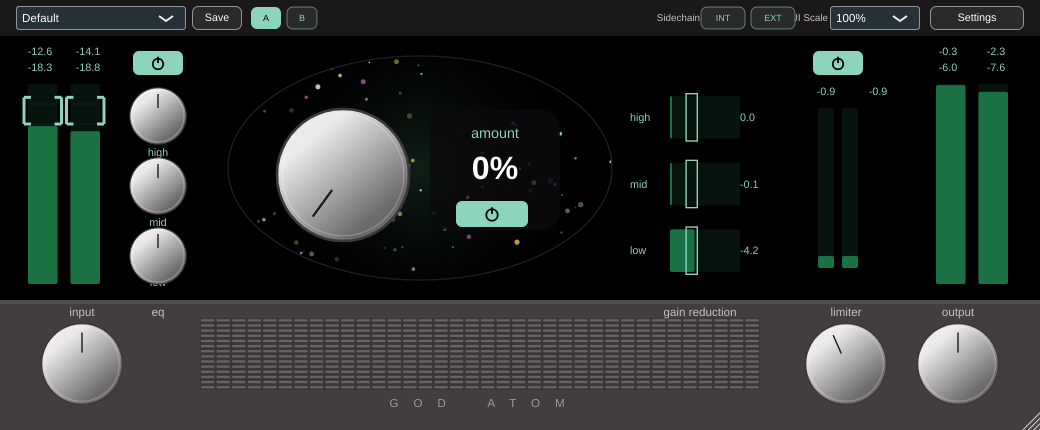
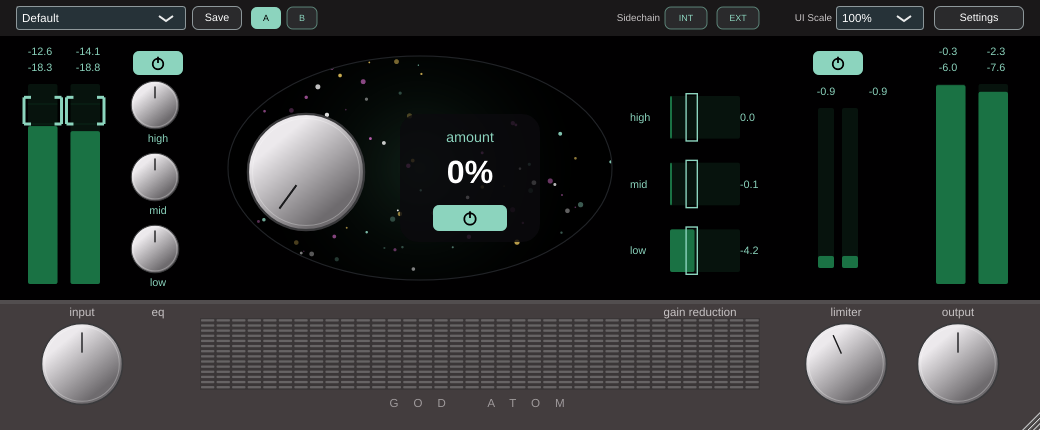
Polish layout spacing and add named user presets
Keep the amount knob left of the readout capsule with a clear gap, sit the EQ Low label fully above the chassis, and space UI Scale away from the EXT button. Save writes named presets to ~/Library/Audio/Presets/GOD ATOM and lists them in the preset menu.

diff --git a/src/plugin/PluginEditor.cpp b/src/plugin/PluginEditor.cpp
@@ -16,6 +16,9 @@ const juce::Colour topBar { 0xff1a1819 };
 
 static constexpr int kBaseW = 1040;
 static constexpr int kBaseH = 430;
+// Amount: knob on the left of the galaxy, readout capsule to its right, a clear gap between them.
+static constexpr float kAmtKnobX = 240, kAmtKnobY = 106, kAmtKnobS = 132;
+static constexpr float kAmtCapX  = 400, kAmtCapY  = 114, kAmtCapW = 140, kAmtCapH = 128;
 
 void SilverLookAndFeel::drawRotarySlider(juce::Graphics& g, int x, int y, int w, int h,
                                          float pos, float start, float end, juce::Slider&) {
@@ -101,13 +104,19 @@ GodAtomEditor::GodAtomEditor(GodAtomProcessor& p)
     addT(btnA, "A"); addT(btnB, "B");
     addT(animBtn, "Animation"); addT(autoBtn, "Auto-gain");
 
-    presetBox.addItemList(juce::StringArray(ga::kPresetNames, ga::kNumPresets), 1);
-    presetBox.setSelectedId(proc.getCurrentProgram() + 1, juce::dontSendNotification);
     presetBox.onChange = [this] {
-        int i = presetBox.getSelectedId() - 1;
-        if (i >= 0) proc.applyPreset(i);
+        int id = presetBox.getSelectedId();
+        if (id >= 1000) {
+            auto names = GodAtomProcessor::listUserPresets();
+            int i = id - 1000;
+            if (juce::isPositiveAndBelow(i, names.size()))
+                proc.loadUserPreset(names[i]);
+        } else if (id > 0) {
+            proc.applyPreset(id - 1);
+        }
     };
     addAndMakeVisible(presetBox);
+    refreshPresetMenu();
 
     scaleBox.addItemList({ "75%", "100%", "125%", "150%", "200%" }, 1);
     osBox.addItemList({ "1x", "2x", "4x", "8x" }, 1);
@@ -128,7 +137,18 @@ GodAtomEditor::GodAtomEditor(GodAtomProcessor& p)
         autoBtn.setVisible(proc.showSettings);
         repaint();
     };
-    saveBtn.onClick = [this] { /* user presets stay in host session state via A/B + DAW save */ };
+    saveBtn.onClick = [this] { showSavePrompt(); };
+    saveOk.onClick = [this] { commitSave(); };
+    saveName.setTextToShowWhenEmpty("Preset name", col::label);
+    saveName.setColour(juce::TextEditor::backgroundColourId, juce::Colour(0xff2a2a2c));
+    saveName.setColour(juce::TextEditor::textColourId, col::mint);
+    saveName.setColour(juce::TextEditor::outlineColourId, col::mint);
+    saveName.setJustification(juce::Justification::centredLeft);
+    saveName.onReturnKey = [this] { commitSave(); };
+    saveName.onEscapeKey = [this] { hideSavePrompt(); };
+    addChildComponent(saveName);
+    addChildComponent(saveOk);
+    saveOk.setColour(juce::TextButton::buttonColourId, juce::Colour(0xff2a2a2c));
 
     btnA.onClick = [this] {
         proc.storeSlot(proc.activeSlot());
@@ -217,27 +237,82 @@ void GodAtomEditor::applyScaleFromParam() {
     setSize((int)std::lround(kBaseW * sc), (int)std::lround(kBaseH * sc));
 }
 
+void GodAtomEditor::refreshPresetMenu() {
+    auto selUser = proc.currentUserPreset();
+    int keepFactory = selUser.isEmpty() ? proc.getCurrentProgram() + 1 : 0;
+    presetBox.clear(juce::dontSendNotification);
+    for (int i = 0; i < ga::kNumPresets; ++i)
+        presetBox.addItem(ga::kPresetNames[i], i + 1);
+    auto users = GodAtomProcessor::listUserPresets();
+    if (users.size() > 0) {
+        presetBox.addSeparator();
+        for (int i = 0; i < users.size(); ++i)
+            presetBox.addItem(users[i], 1000 + i);
+    }
+    if (selUser.isNotEmpty()) {
+        int idx = users.indexOf(selUser);
+        if (idx >= 0) presetBox.setSelectedId(1000 + idx, juce::dontSendNotification);
+        else presetBox.setSelectedId(1, juce::dontSendNotification);
+    } else {
+        presetBox.setSelectedId(keepFactory > 0 ? keepFactory : 1, juce::dontSendNotification);
+    }
+}
+
+bool GodAtomEditor::presetMenuContains(const juce::String& name) const {
+    for (int i = 0; i < presetBox.getNumItems(); ++i)
+        if (presetBox.getItemText(i) == name)
+            return true;
+    return false;
+}
+
+void GodAtomEditor::showSavePrompt() {
+    saveName.setText(proc.currentUserPreset().isEmpty() ? "My preset" : proc.currentUserPreset(),
+                     juce::dontSendNotification);
+    saveName.setVisible(true);
+    saveOk.setVisible(true);
+    saveName.grabKeyboardFocus();
+    saveName.selectAll();
+}
+
+void GodAtomEditor::hideSavePrompt() {
+    saveName.setVisible(false);
+    saveOk.setVisible(false);
+}
+
+void GodAtomEditor::commitSave() {
+    auto name = saveName.getText();
+    if (proc.saveUserPreset(name)) {
+        hideSavePrompt();
+        refreshPresetMenu();
+    }
+}
+
 void GodAtomEditor::resized() {
     scale = (float)getWidth() / (float)kBaseW;
-    // Top bar
+    // Top bar: leftover space after EXT before the UI Scale label.
     presetBox.setBounds(SR(16, 6, 170, 24).toNearestInt());
     saveBtn.setBounds(SR(192, 6, 50, 24).toNearestInt());
     btnA.setBounds(SR(250, 6, 32, 24).toNearestInt());
     btnB.setBounds(SR(286, 6, 32, 24).toNearestInt());
-    scInt.setBounds(SR(700, 6, 46, 24).toNearestInt());
-    scExt.setBounds(SR(750, 6, 46, 24).toNearestInt());
-    scaleBox.setBounds(SR(830, 6, 90, 24).toNearestInt());
-    settingsBtn.setBounds(SR(930, 6, 94, 24).toNearestInt());
+    saveName.setBounds(SR(326, 6, 150, 24).toNearestInt());
+    saveOk.setBounds(SR(480, 6, 40, 24).toNearestInt());
+    scInt.setBounds(SR(664, 6, 44, 24).toNearestInt());
+    scExt.setBounds(SR(716, 6, 44, 24).toNearestInt());
+    scaleBox.setBounds(SR(836, 6, 88, 24).toNearestInt());
+    settingsBtn.setBounds(SR(934, 6, 90, 24).toNearestInt());
 
-    // EQ knobs
+    // EQ knobs — slightly smaller so the Low label sits fully above the chassis.
     eqOn.setBounds(SR(132, 50, 52, 26).toNearestInt());
-    eqHigh.setBounds(SR(126, 84, 64, 64).toNearestInt());
-    eqMid.setBounds(SR(126, 154, 64, 64).toNearestInt());
-    eqLow.setBounds(SR(126, 224, 64, 64).toNearestInt());
+    eqHigh.setBounds(SR(128, 78, 54, 54).toNearestInt());
+    eqMid.setBounds(SR(128, 150, 54, 54).toNearestInt());
+    eqLow.setBounds(SR(128, 222, 54, 54).toNearestInt());
 
-    // Amount
-    amountKnob.setBounds(SR(268, 100, 150, 150).toNearestInt());
-    charOn.setBounds(SR(455, 200, 74, 28).toNearestInt());
+    // Amount: knob left, capsule (and its power button) to the right, no overlap.
+    amountKnob.setBounds(SR(kAmtKnobX, kAmtKnobY, kAmtKnobS, kAmtKnobS).toNearestInt());
+    const float pwrW = 76.f, pwrH = 28.f;
+    charOn.setBounds(SR(kAmtCapX + 0.5f * (kAmtCapW - pwrW),
+                        kAmtCapY + kAmtCapH - pwrH - 10.f,
+                        pwrW, pwrH).toNearestInt());
 
     // Limiter power
     limOn.setBounds(SR(812, 50, 52, 26).toNearestInt());
@@ -264,9 +339,11 @@ void GodAtomEditor::timerCallback() {
     bool ext = proc.apvts.getRawParameterValue("extSC")->load() >= 0.5f;
     scInt.setToggleState(!ext, juce::dontSendNotification);
     scExt.setToggleState(ext, juce::dontSendNotification);
-    int prog = proc.getCurrentProgram() + 1;
-    if (presetBox.getSelectedId() != prog && !presetBox.hasKeyboardFocus(true))
-        presetBox.setSelectedId(prog, juce::dontSendNotification);
+    if (proc.currentUserPreset().isEmpty() && !presetBox.hasKeyboardFocus(true)) {
+        int prog = proc.getCurrentProgram() + 1;
+        if (presetBox.getSelectedId() != prog)
+            presetBox.setSelectedId(prog, juce::dontSendNotification);
+    }
     if (proc.apvts.getRawParameterValue("animation")->load() >= 0.5f) {
         for (auto& pt : parts) {
             pt.x += pt.vx; pt.y += pt.vy;
@@ -387,8 +464,8 @@ void GodAtomEditor::drawGalaxy(juce::Graphics& g, juce::Rectangle<float> area, f
     g.setColour(juce::Colour(0xff202226));
     g.drawEllipse(oval, 1.2f * scale);
 
-    // Amount capsule
-    auto cap = juce::Rectangle<float>(S(430), S(110), S(130), S(120));
+    // Amount capsule — to the right of the knob, not under it.
+    auto cap = SR(kAmtCapX, kAmtCapY, kAmtCapW, kAmtCapH);
     g.setColour(juce::Colour(0xcc0b0a0e));
     g.fillRoundedRectangle(cap, S(18));
     g.setColour(col::mint);
@@ -486,8 +563,8 @@ void GodAtomEditor::paint(juce::Graphics& g) {
     // EQ labels
     g.setColour(col::mint);
     g.setFont(juce::FontOptions(S(12)));
-    g.drawText("high", SR(126, 146, 64, 14).toNearestInt(), juce::Justification::centred, false);
-    g.drawText("mid",  SR(126, 216, 64, 14).toNearestInt(), juce::Justification::centred, false);
+    g.drawText("high", SR(126, 132, 64, 14).toNearestInt(), juce::Justification::centred, false);
+    g.drawText("mid",  SR(126, 204, 64, 14).toNearestInt(), juce::Justification::centred, false);
     g.drawText("low",  SR(126, 276, 64, 14).toNearestInt(), juce::Justification::centred, false);
 
     drawGalaxy(g, SR(220, 48, 400, 240), p.amount, level);
@@ -531,8 +608,8 @@ void GodAtomEditor::paint(juce::Graphics& g) {
     g.setColour(col::label);
     g.setFont(juce::FontOptions(S(11)));
     g.drawText("Preset", SR(16, 4, 80, 12).toNearestInt(), juce::Justification::centredLeft, false);
-    g.drawText("Sidechain", SR(630, 10, 70, 16).toNearestInt(), juce::Justification::centredRight, false);
-    g.drawText("UI Scale", SR(770, 10, 58, 16).toNearestInt(), juce::Justification::centredRight, false);
+    g.drawText("Sidechain", SR(590, 10, 70, 16).toNearestInt(), juce::Justification::centredRight, false);
+    g.drawText("UI Scale", SR(776, 10, 56, 16).toNearestInt(), juce::Justification::centredRight, false);
 
     drawSettings(g);
 }

diff --git a/tests/plugin_tests.cpp b/tests/plugin_tests.cpp
@@ -202,6 +202,39 @@ int main() {
         CHECKM(std::abs(p.amount - 130.f) < 0.5f, "state amount %f", p.amount);
     }
 
+    // User presets on disk
+    {
+        Rig r(sr, 256);
+        const juce::String pname { "TestAtomUser" };
+        auto file = GodAtomProcessor::userPresetDirectory().getChildFile(pname + ".xml");
+        file.deleteFile();
+        CHECK(GodAtomProcessor::sanitizePresetName(" My Cool-Preset_1 ").compare("My Cool-Preset_1") == 0);
+        CHECK(GodAtomProcessor::sanitizePresetName("foo/../bar").compare("foo..bar") == 0);
+        CHECK(!r.p.saveUserPreset(""));
+        CHECK(!r.p.saveUserPreset("   "));
+        r.p.applyParams([]{ ga::Params p; p.amount = 173; p.eqLowDb = 4.5f; p.limiterDb = 7; return p; }());
+        CHECK(r.p.saveUserPreset(pname));
+        CHECK(file.existsAsFile());
+        CHECK(GodAtomProcessor::listUserPresets().contains(pname));
+        r.p.applyPreset(0);
+        CHECK(r.p.currentUserPreset().isEmpty());
+        CHECKM(std::abs(r.p.readParams().amount - 100.f) < 0.5f, "reset amount %f", r.p.readParams().amount);
+        CHECK(r.p.loadUserPreset(pname));
+        CHECK(r.p.currentUserPreset() == pname);
+        auto loaded = r.p.readParams();
+        CHECKM(std::abs(loaded.amount - 173.f) < 0.5f, "loaded amount %f", loaded.amount);
+        CHECKM(std::abs(loaded.eqLowDb - 4.5f) < 0.1f, "loaded eqLow %f", loaded.eqLowDb);
+        CHECKM(std::abs(loaded.limiterDb - 7.f) < 0.1f, "loaded limiter %f", loaded.limiterDb);
+        auto* ed = dynamic_cast<GodAtomEditor*>(r.p.createEditor());
+        CHECK(ed != nullptr);
+        if (ed) {
+            ed->refreshPresetMenu();
+            CHECK(ed->presetMenuContains(pname));
+            delete ed;
+        }
+        CHECK(file.deleteFile());
+    }
+
     // Screenshots
     {
         Rig r(sr, 256);
@@ -211,10 +244,23 @@ int main() {
         auto* ed = dynamic_cast<GodAtomEditor*>(r.p.createEditor());
         CHECK(ed != nullptr);
         if (ed) {
+            auto setScale = [&](int idx) {
+                if (auto* par = r.p.apvts.getParameter("uiScale"))
+                    par->setValueNotifyingHost(par->convertTo0to1((float)idx));
+                ed->applyScaleFromParam();
+            };
             r.p.applyPreset(0);
             juce::Thread::sleep(60);
             CHECK(shot(*ed, shotsDir.getChildFile("default.png")));
             CHECK(shot(*ed, diag.getChildFile("ui-default.png")));
+
+            setScale(0); // 75%
+            juce::Thread::sleep(60);
+            CHECK(shot(*ed, diag.getChildFile("ui-default-75.png")));
+            setScale(4); // 200%
+            juce::Thread::sleep(60);
+            CHECK(shot(*ed, diag.getChildFile("ui-default-200.png")));
+            setScale(1); // back to 100%
 
             r.p.applyParams([]{ ga::Params p; p.amount = 0; return p; }());
             juce::Thread::sleep(60);

diff --git a/src/plugin/PluginProcessor.cpp b/src/plugin/PluginProcessor.cpp
@@ -151,6 +151,7 @@ void GodAtomProcessor::applyParams(const ga::Params& p) {
 void GodAtomProcessor::applyPreset(int index) {
     index = juce::jlimit(0, ga::kNumPresets - 1, index);
     program = index;
+    userPresetName.clear();
     applyParams(ga::presetByName(ga::kPresetNames[index]));
 }
 
@@ -158,6 +159,60 @@ void GodAtomProcessor::setCurrentProgram(int i) { applyPreset(i); }
 const juce::String GodAtomProcessor::getProgramName(int i) {
     if (i >= 0 && i < ga::kNumPresets) return ga::kPresetNames[i];
     return {};
+}
+
+juce::File GodAtomProcessor::userPresetDirectory() {
+    return juce::File::getSpecialLocation(juce::File::userHomeDirectory)
+        .getChildFile("Library")
+        .getChildFile("Audio")
+        .getChildFile("Presets")
+        .getChildFile("GOD ATOM");
+}
+
+juce::String GodAtomProcessor::sanitizePresetName(const juce::String& name) {
+    auto s = name.trim();
+    juce::String out;
+    for (int i = 0; i < s.length() && out.length() < 64; ++i) {
+        auto c = s[i];
+        if (juce::CharacterFunctions::isLetterOrDigit(c) || c == ' ' || c == '-' || c == '_' || c == '.')
+            out += c;
+    }
+    return out.trim();
+}
+
+juce::StringArray GodAtomProcessor::listUserPresets() {
+    juce::StringArray names;
+    auto dir = userPresetDirectory();
+    if (!dir.isDirectory()) return names;
+    for (auto& f : dir.findChildFiles(juce::File::findFiles, false, "*.xml"))
+        names.add(f.getFileNameWithoutExtension());
+    names.sortNatural();
+    return names;
+}
+
+bool GodAtomProcessor::saveUserPreset(const juce::String& name) {
+    auto safe = sanitizePresetName(name);
+    if (safe.isEmpty()) return false;
+    auto dir = userPresetDirectory();
+    if (!dir.createDirectory() && !dir.isDirectory()) return false;
+    auto xml = apvts.copyState().createXml();
+    if (!xml) return false;
+    if (!xml->writeTo(dir.getChildFile(safe + ".xml"))) return false;
+    userPresetName = safe;
+    return true;
+}
+
+bool GodAtomProcessor::loadUserPreset(const juce::String& name) {
+    auto safe = sanitizePresetName(name);
+    if (safe.isEmpty()) return false;
+    auto f = userPresetDirectory().getChildFile(safe + ".xml");
+    if (!f.existsAsFile()) return false;
+    auto xml = juce::XmlDocument::parse(f);
+    if (!xml) return false;
+    if (!xml->hasTagName(apvts.state.getType())) return false;
+    apvts.replaceState(juce::ValueTree::fromXml(*xml));
+    userPresetName = safe;
+    return true;
 }
 
 void GodAtomProcessor::storeSlot(int slot) {

diff --git a/src/plugin/PluginEditor.h b/src/plugin/PluginEditor.h
@@ -17,10 +17,15 @@ public:
     void paint(juce::Graphics&) override;
     void resized() override;
     void mouseDown(const juce::MouseEvent&) override;
+    void applyScaleFromParam();
+    void refreshPresetMenu();
+    bool presetMenuContains(const juce::String& name) const;
 
 private:
     void timerCallback() override;
-    void applyScaleFromParam();
+    void showSavePrompt();
+    void hideSavePrompt();
+    void commitSave();
     float S(float v) const { return v * scale; }
     juce::Rectangle<float> SR(float x, float y, float w, float h) const {
         return { S(x), S(y), S(w), S(h) };
@@ -39,7 +44,8 @@ private:
     juce::Slider inKnob, outKnob, limKnob, eqHigh, eqMid, eqLow, amountKnob;
     juce::ToggleButton eqOn, charOn, limOn, scInt, scExt, btnA, btnB, animBtn, autoBtn;
     juce::ComboBox presetBox, scaleBox, osBox, meterBox;
-    juce::TextButton settingsBtn { "Settings" }, saveBtn { "Save" };
+    juce::TextButton settingsBtn { "Settings" }, saveBtn { "Save" }, saveOk { "OK" };
+    juce::TextEditor saveName;
 
     using SA = juce::AudioProcessorValueTreeState::SliderAttachment;
     using BA = juce::AudioProcessorValueTreeState::ButtonAttachment;

diff --git a/src/plugin/PluginProcessor.h b/src/plugin/PluginProcessor.h
@@ -36,6 +36,14 @@ public:
     ga::Params readParams() const;
     void applyParams(const ga::Params& p);
     void applyPreset(int index);
+
+    static juce::File userPresetDirectory();
+    static juce::String sanitizePresetName(const juce::String& name);
+    static juce::StringArray listUserPresets();
+    bool saveUserPreset(const juce::String& name);
+    bool loadUserPreset(const juce::String& name);
+    juce::String currentUserPreset() const { return userPresetName; }
+
     ga::Meters currentMeters() const { return meters; }
     void resetMeters() { engine.resetPeaks(); meters = {}; }
     int reportedLatency() const { return getLatencySamples(); }
@@ -61,5 +69,6 @@ private:
     juce::MemoryBlock slotA, slotB;
     int abSlot = 0;
     std::atomic<float> autoGain { 0 };
+    juce::String userPresetName;
     JUCE_DECLARE_NON_COPYABLE_WITH_LEAK_DETECTOR(GodAtomProcessor)
 };

diff --git a/README.md b/README.md
@@ -16,6 +16,9 @@ It is original software: original DSP, original artwork, original name. The layo
 
 Factory presets: Default, Indie, Ambient, Late Night, Folk, Glue Only, Wide Air, Quiet Mix.
 
+**Save** writes a named user preset to `~/Library/Audio/Presets/GOD ATOM` (an XML snapshot of the current parameters) and adds it to the preset menu. The same folder is scanned on launch, so those presets come back in a new session.
+
+
 ## Latency
 
 At 1× oversampling the plugin reports a 64-sample lookahead (about 1.33 ms at 48 kHz), including when the limiter is off, so the delay does not jump when you click the limiter. Higher oversampling adds a small, reported filter delay.

diff --git a/TESTING.md b/TESTING.md
@@ -18,7 +18,8 @@ cmake --build build --target godatom_plugin_tests GodAtom_VST3
 ./build/godatom_plugin_tests_artefacts/Release/godatom_plugin_tests
 ```
 
-These take screenshots and write level-matched WAV demos into `diag/`.
+These take screenshots (including default layout at 75%, 100% and 200% UI scale) and write level-matched WAV demos into `diag/`. They also save, list and reload a named user preset under `~/Library/Audio/Presets/GOD ATOM`, then delete the test file.
+
 
 ## pluginval
 
